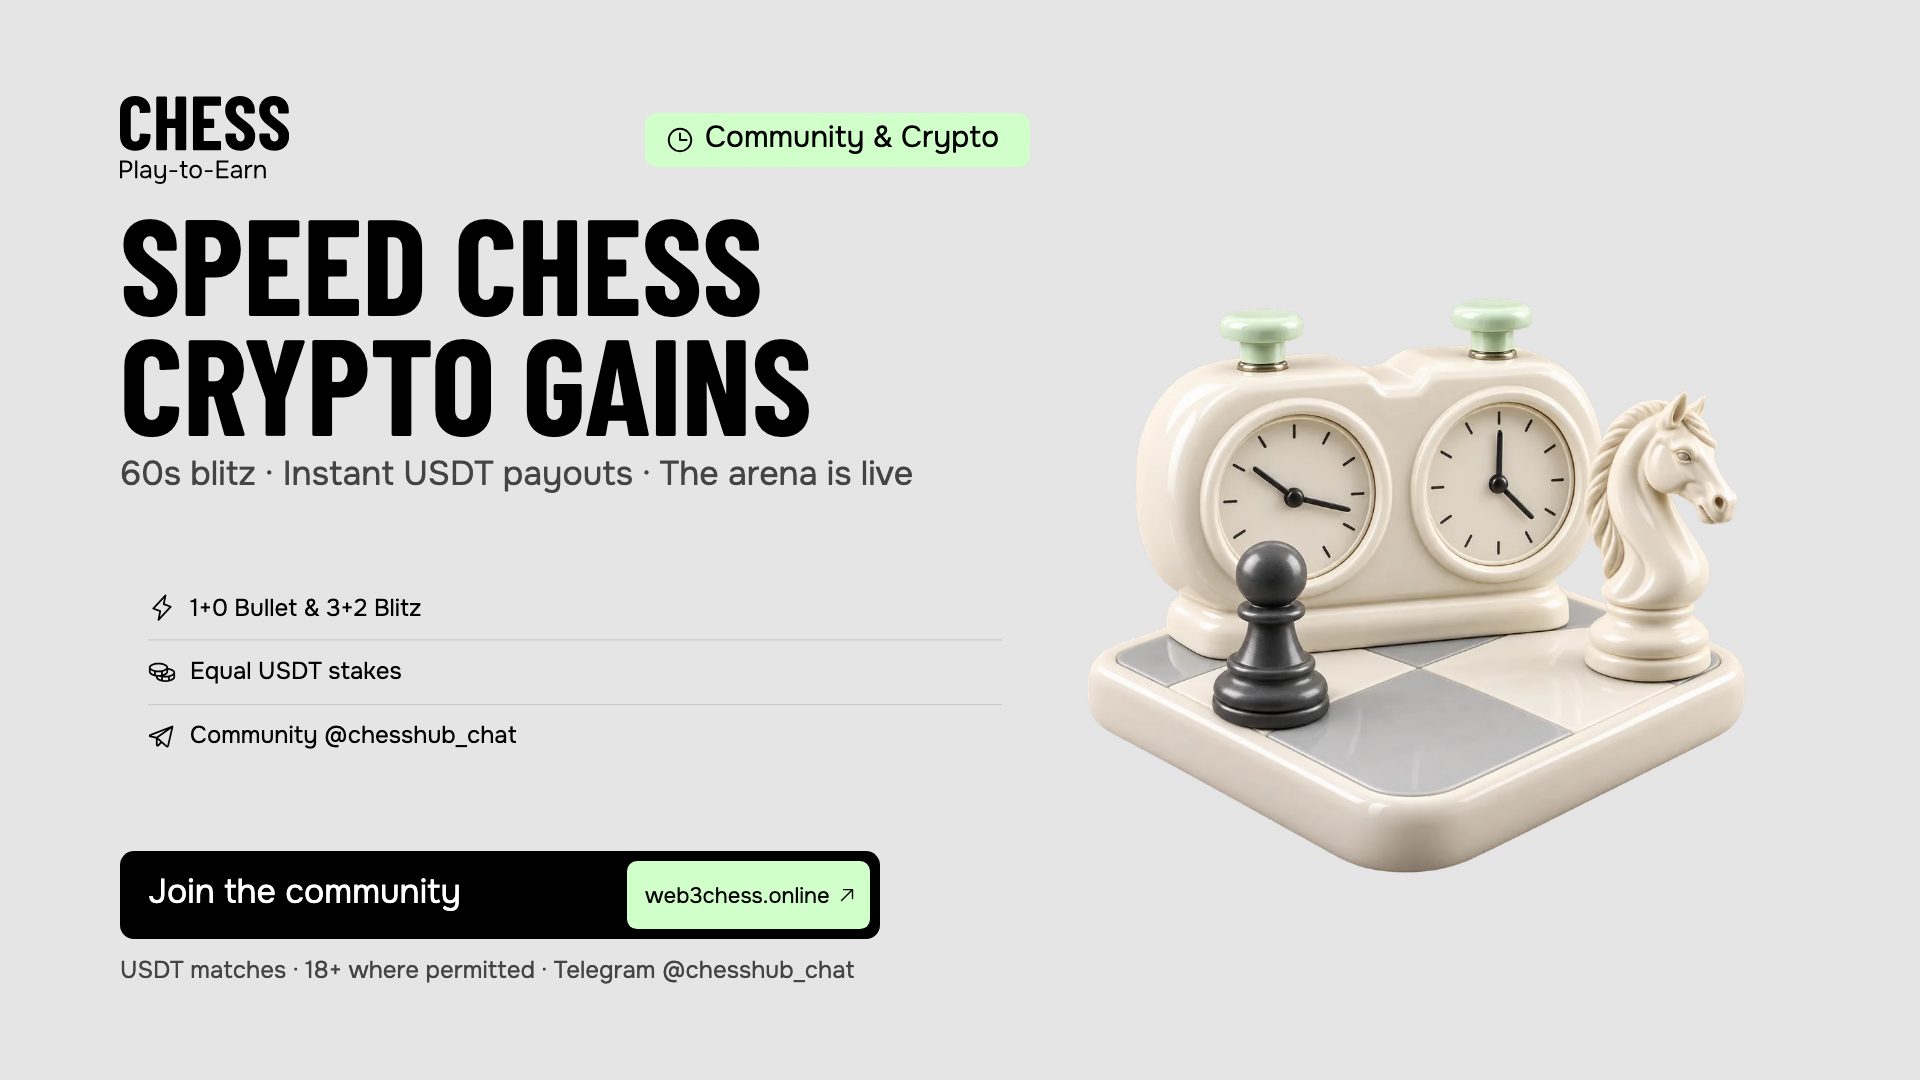
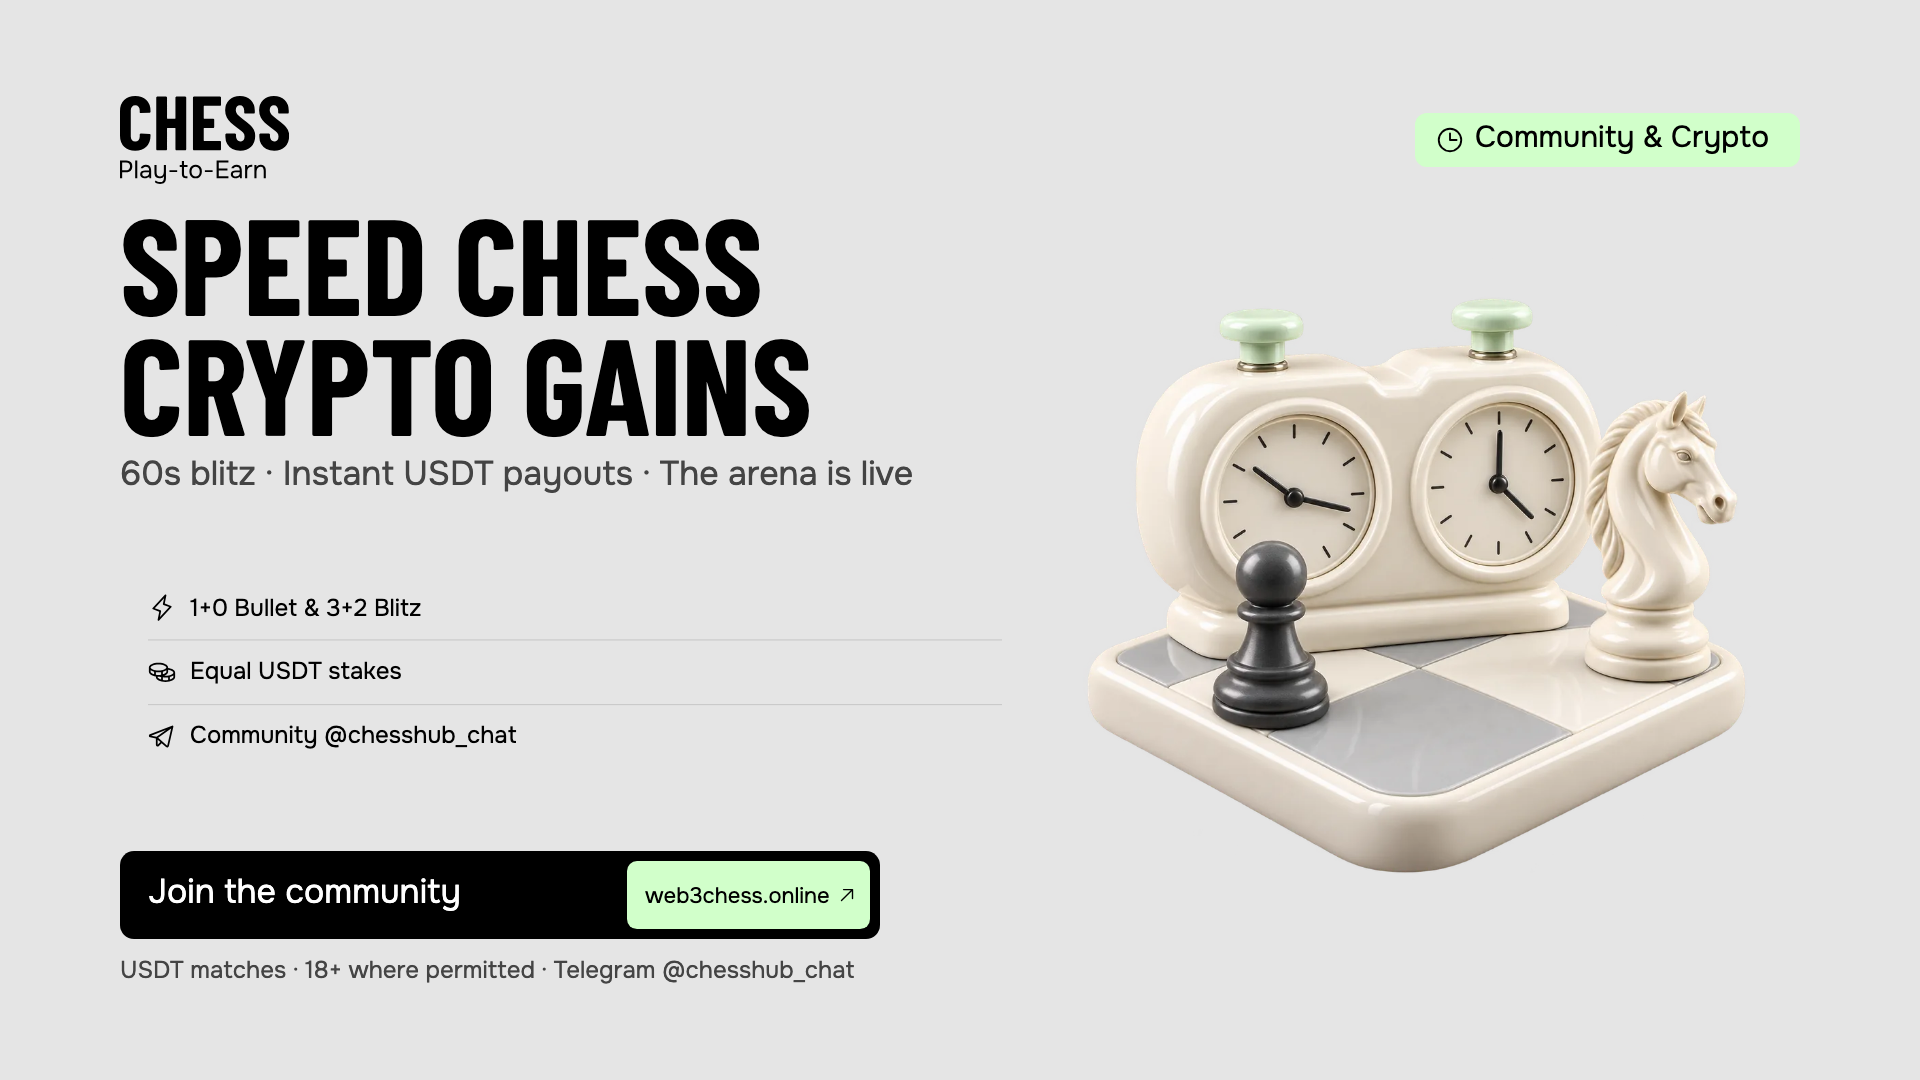
fix(marketing): move wide canvas badge to right side and sync announcement graphics

Changed region(s): [[0.3125, 0.0917, 0.5625, 0.1528], [0.7188, 0.0917, 0.9375, 0.1528]]

diff --git a/marketing/templates/renderer.js b/marketing/templates/renderer.js
@@ -118,7 +118,7 @@
     let badge,hy;
     if(wide){
       meter.font=face('body',badgeSpec.font,500);const desired=Math.ceil(meter.measureText(tag).width)+90;
-      badge=pill(tag,x+textW-desired,top+(spec.brand-badgeSpec.minHeight)/2,desired);
+      badge=pill(tag,x+w-desired,top+(spec.brand-badgeSpec.minHeight)/2,desired);
       hy=top+spec.brand+spec.headGap;
     } else {
       const tagW=w-logoW-48;meter.font=face('body',badgeSpec.font,500);const desired=Math.ceil(meter.measureText(tag).width)+90;
